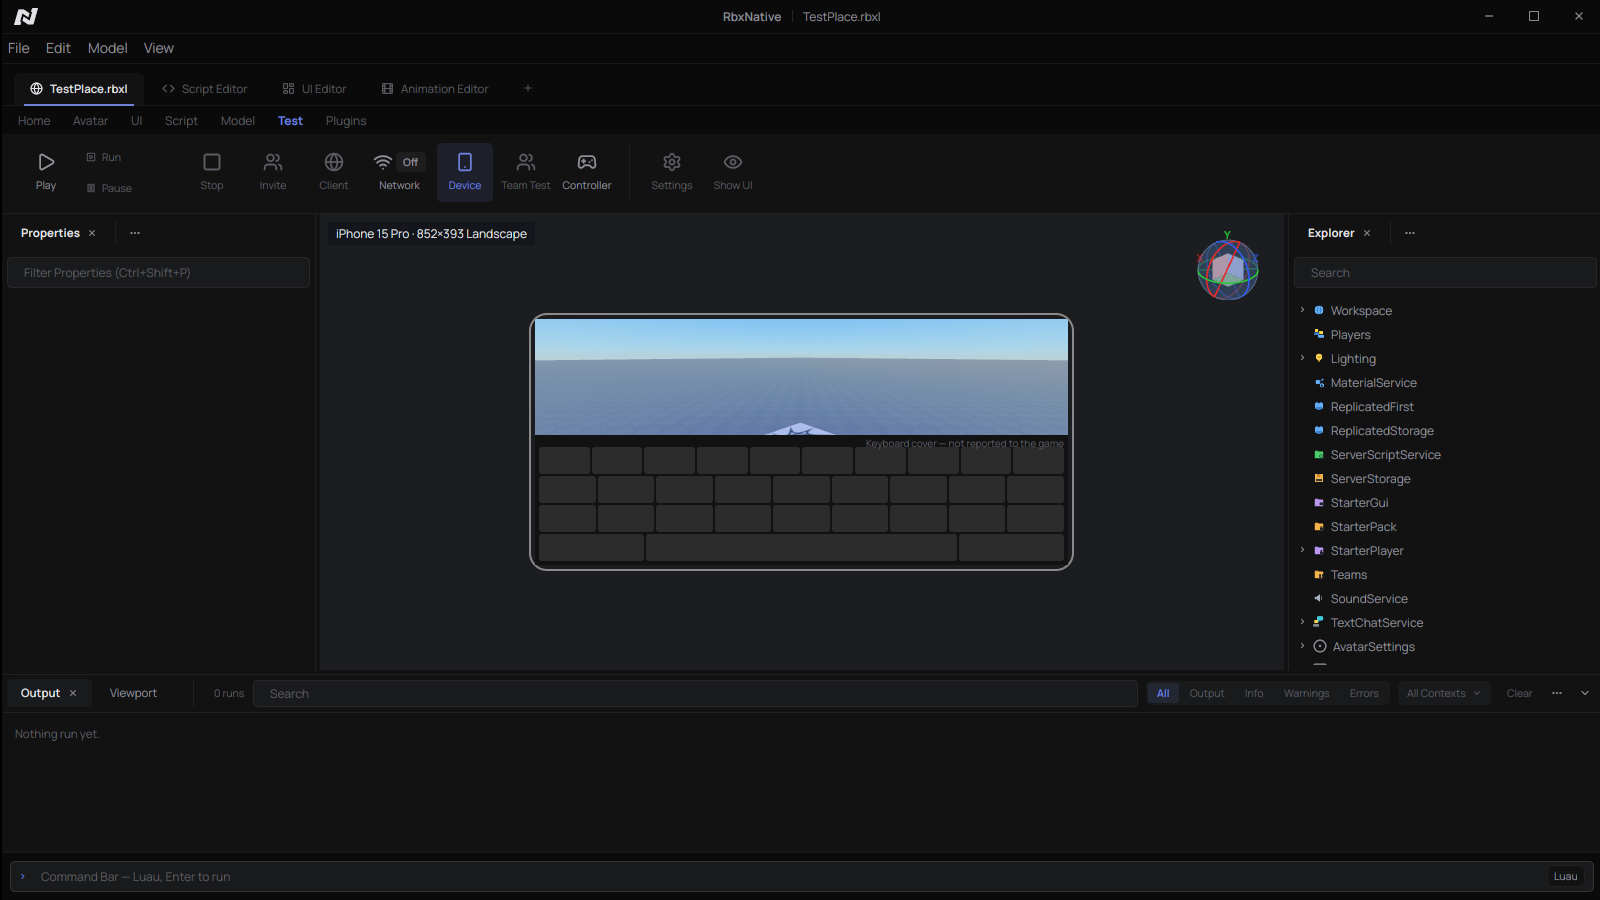
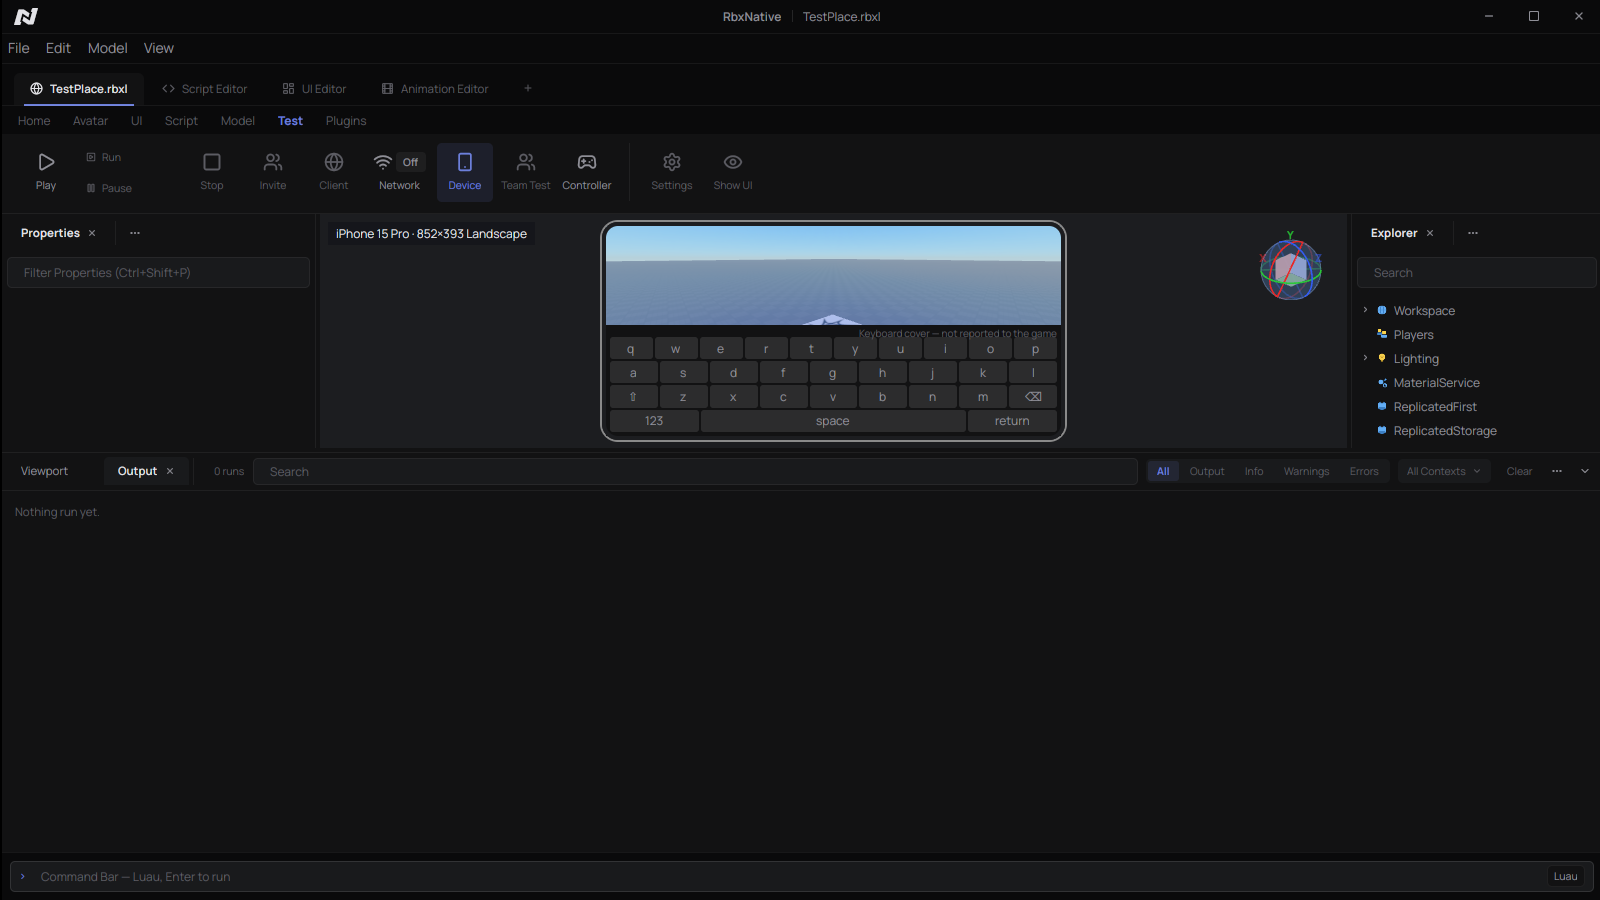
Device Simulator: labelled keyboard cover and rounded screen corners, cut into the Play client too

diff --git a/crates/rbx_studio/src/shell/play.rs b/crates/rbx_studio/src/shell/play.rs
@@ -86,6 +86,9 @@ const EMBED_TIMEOUT: Duration = Duration::from_secs(90);
 pub(crate) struct EmbedTarget {
     pub(crate) window: crate::pointer_lock::WindowId,
     pub(crate) rect: session::rbx_play_rect::Rect,
+    /// Corner radius to cut, in physical pixels: a simulated device's
+    /// rounded screen, 0 for the whole panel.
+    pub(crate) corner: u32,
 }
 
 #[derive(Debug, Clone, PartialEq, Eq)]
@@ -115,6 +118,8 @@ struct Session {
     client: ClientProcess,
     own_user: Option<u64>,
     last_rect: Option<session::rbx_play_rect::Rect>,
+    /// `EmbedTarget::corner` of `last_rect`.
+    corner: u32,
     /// The embedded window is hidden because another document (Scripts,
     /// UI Editor, Animation) took the room the 3D view had.
     #[cfg(any(target_os = "linux", windows))]
@@ -553,6 +558,7 @@ impl Shell {
                     client,
                     own_user: None,
                     last_rect: None,
+                    corner: 0,
                     #[cfg(any(target_os = "linux", windows))]
                     hidden: false,
                 });
@@ -599,6 +605,7 @@ impl Shell {
                                 running.embedded = Some(embedded);
                                 running.focus = focus.ok();
                                 running.last_rect = Some(target.rect);
+                                running.corner = target.corner;
                             }
                         }
                         Err(err) => shell.output.push(
@@ -650,12 +657,17 @@ impl Shell {
             return None;
         }
         // A simulated device's screen at 1:1 rather than the whole panel.
-        let rect = view.play_rect(crate::device_sim::Rect {
+        let panel = crate::device_sim::Rect {
             x: i32::try_from(x).ok()?,
             y: i32::try_from(y).ok()?,
             width,
             height,
-        });
+        };
+        let rect = view.play_rect(panel);
+        let corner = match rect == panel {
+            true => 0,
+            false => (crate::device_sim::SCREEN_RADIUS * self.play.scale).round() as u32,
+        };
         Some(EmbedTarget {
             window,
             rect: session::rbx_play_rect::Rect {
@@ -664,6 +676,7 @@ impl Shell {
                 width: rect.width,
                 height: rect.height,
             },
+            corner,
         })
     }
 
@@ -752,6 +765,7 @@ impl Shell {
                         let _ = embedded.set_rect(target.rect);
                         running.last_rect = Some(target.rect);
                     }
+                    running.corner = target.corner;
                     if running.hidden {
                         embedded.show();
                         running.hidden = false;
@@ -797,7 +811,7 @@ impl Shell {
             return;
         }
         let scale = self.play.scale;
-        let holes: Vec<rbx_play::embed::Rect> = gpui_base::occlusion::rects(window)
+        let mut holes: Vec<rbx_play::embed::Rect> = gpui_base::occlusion::rects(window)
             .into_iter()
             .filter_map(|bounds| {
                 let left = (f32::from(bounds.origin.x) * scale).floor() as i32 - rect.x;
@@ -815,6 +829,16 @@ impl Shell {
                 })
             })
             .collect();
+        holes.extend(
+            crate::device_sim::corner_holes(rect.width, rect.height, running.corner)
+                .into_iter()
+                .map(|hole| rbx_play::embed::Rect {
+                    x: hole.x,
+                    y: hole.y,
+                    width: hole.width,
+                    height: hole.height,
+                }),
+        );
         if holes != self.play.holes && embedded.set_holes(&holes).is_ok() {
             self.play.holes = holes;
         }

diff --git a/crates/rbx_studio/src/workspace_view/device.rs b/crates/rbx_studio/src/workspace_view/device.rs
@@ -25,6 +25,8 @@ use crate::tokens;
 
 /// How far the bezel outline stands off the screen, in logical pixels.
 const BEZEL: f32 = 6.0;
+/// The corner ring's width (`border_4`), inside the bezel's 2-pixel outline.
+const MASK: f32 = 4.0;
 
 /// What `Shell` tells the view about the simulated device.
 #[derive(Debug, Clone, PartialEq)]
@@ -123,6 +125,22 @@ impl WorkspaceView {
                 .border_color(tokens::check_off_border())
                 .rounded(px(BEZEL * 3.0))
         });
+        // The screen's own rounded corners, concentric with the bezel: a
+        // ring of the backdrop colour whose inner edge has the screen's
+        // radius, painted over the scene's (and the cover's) square corners.
+        // During Play the client window's corners are cut to match
+        // (`device_sim::corner_holes`), so this ring shows through there.
+        let corners = screen.map(|rect| {
+            div()
+                .absolute()
+                .left(local(i64::from(rect.x) - i64::from(panel.origin.0)) - px(MASK))
+                .top(local(i64::from(rect.y) - i64::from(panel.origin.1)) - px(MASK))
+                .w(local(i64::from(rect.width)) + px(MASK * 2.0))
+                .h(local(i64::from(rect.height)) + px(MASK * 2.0))
+                .border_4()
+                .border_color(tokens::viewport_background())
+                .rounded(px(device_sim::SCREEN_RADIUS + MASK))
+        });
         let cover = match (screen, self.screen) {
             (Some(rect), Some(points)) if device.keyboard > 0 && points.1 > 0 => {
                 let height = (i64::from(device.keyboard) * i64::from(rect.height)
@@ -172,6 +190,7 @@ impl WorkspaceView {
                 })
                 .children(bezel)
                 .children(cover)
+                .children(corners)
                 .child(
                     div()
                         .absolute()

diff --git a/crates/rbx_studio/src/workspace_view/device/keyboard.rs b/crates/rbx_studio/src/workspace_view/device/keyboard.rs
@@ -7,17 +7,28 @@ use gpui_kit::*;
 
 use crate::tokens;
 
-/// Keys per row for the three letter rows.
-const LETTER_ROWS: [usize; 3] = [10, 9, 9];
+/// The three letter rows of a plain QWERTY layout, shift and delete
+/// included, so the cover reads as a keyboard at a glance.
+const LETTER_ROWS: [&[&str]; 3] = [
+    &["q", "w", "e", "r", "t", "y", "u", "i", "o", "p"],
+    &["a", "s", "d", "f", "g", "h", "j", "k", "l"],
+    &["\u{21e7}", "z", "x", "c", "v", "b", "n", "m", "\u{232b}"],
+];
 
-fn key() -> Div {
+fn key(label: &'static str) -> Div {
     // `tile` is the dock colour, so it would vanish on `chrome`: a white
     // wash reads as a key on any surface.
     div()
         .flex_1()
         .h_full()
+        .flex()
+        .items_center()
+        .justify_center()
         .bg(tokens::border2())
         .rounded(px(3.))
+        .text_size(tokens::viewport_text(12.))
+        .text_color(tokens::text2())
+        .child(label)
 }
 
 fn row() -> Div {
@@ -36,11 +47,11 @@ pub(super) fn cover(
 ) -> Div {
     let letters = LETTER_ROWS
         .iter()
-        .map(|&count| row().children((0..count).map(|_| key())));
+        .map(|labels| row().children(labels.iter().map(|&label| key(label))));
     let bottom = row()
-        .child(key().flex_none().w_1_5())
-        .child(key())
-        .child(key().flex_none().w_1_5());
+        .child(key("123").flex_none().w_1_5())
+        .child(key("space"))
+        .child(key("return").flex_none().w_1_5());
     div()
         .absolute()
         .left(left)

diff --git a/crates/rbx_studio/src/device_sim.rs b/crates/rbx_studio/src/device_sim.rs
@@ -287,6 +287,39 @@ pub(crate) fn centred(panel: Rect, screen: (u32, u32)) -> Option<Rect> {
     })
 }
 
+/// The simulated screen's corner radius, in logical pixels: the bezel's
+/// outline (`workspace_view::device`) curves concentrically around it.
+pub(crate) const SCREEN_RADIUS: f32 = 12.0;
+
+/// The strips to cut out of a `width`×`height` window so its corners are
+/// rounded at `radius` pixels: one pixel row per strip, as wide as the
+/// part of that row outside the arc. The Play client is a foreign window,
+/// so its corners can only be cut, not painted over.
+pub(crate) fn corner_holes(width: u32, height: u32, radius: u32) -> Vec<Rect> {
+    let radius = radius.min(width / 2).min(height / 2);
+    let r = radius as f32;
+    let mut holes = Vec::new();
+    for row in 0..radius {
+        // Distance from the arc's centre to this row's middle.
+        let dy = r - row as f32 - 0.5;
+        let cut = (r - (r * r - dy * dy).max(0.0).sqrt()).round() as u32;
+        if cut == 0 {
+            continue;
+        }
+        let (top, bottom) = (row as i32, (height - 1 - row) as i32);
+        let right = (width - cut) as i32;
+        for (x, y) in [(0, top), (right, top), (0, bottom), (right, bottom)] {
+            holes.push(Rect {
+                x,
+                y,
+                width: cut,
+                height: 1,
+            });
+        }
+    }
+    holes
+}
+
 #[derive(Debug, Clone, Copy, PartialEq, Eq)]
 pub(crate) struct CustomDevice {
     pub(crate) width: u32,

diff --git a/crates/rbx_studio/src/device_sim/tests.rs b/crates/rbx_studio/src/device_sim/tests.rs
@@ -209,3 +209,26 @@ fn display_scaling_keys_and_factors() {
     let custom = CustomDevice::new(800, 600, Platform::Phone).device();
     assert_eq!(DisplayScaling::Physical.logical_per_point(&custom), None);
 }
+
+#[test]
+fn corner_holes_round_each_corner_symmetrically() {
+    let holes = corner_holes(100, 50, 4);
+    // Four strips per row whose cut is not zero; the first row cuts most.
+    assert_eq!(holes.len() % 4, 0);
+    let top_left: Vec<_> = holes.iter().filter(|h| h.x == 0 && h.y < 4).collect();
+    assert!(top_left.windows(2).all(|w| w[0].width >= w[1].width));
+    assert!(top_left[0].width >= 2 && top_left[0].width < 4);
+    for hole in &holes {
+        assert_eq!(hole.height, 1);
+        assert!(hole.x == 0 || hole.x + hole.width as i32 == 100);
+        assert!(hole.y < 4 || hole.y > 45);
+    }
+}
+
+#[test]
+fn corner_holes_need_a_radius_and_stay_inside_small_windows() {
+    assert!(corner_holes(100, 50, 0).is_empty());
+    assert!(corner_holes(6, 6, 40)
+        .iter()
+        .all(|h| h.width <= 3 && h.y < 6));
+}

diff --git a/docs/research/play-sandbox/device-simulator.md b/docs/research/play-sandbox/device-simulator.md
@@ -87,7 +87,7 @@ Two notes from the run:
   added round trip of 410 ms (185 ms in + 225 ms out).
 
 Screenshots: `device-simulator/play-iphone15pro-portrait.png`,
-`play-pixel8-textbox-keyboard.png`, `play-pixel8-back.png`,
+`play-pixel8-keyboard.png`, `play-pixel8-back.png`,
 `play-ipadpro-doesnt-fit.png`.
 
 ## 2. Input modes on Windows — not possible from outside the client
